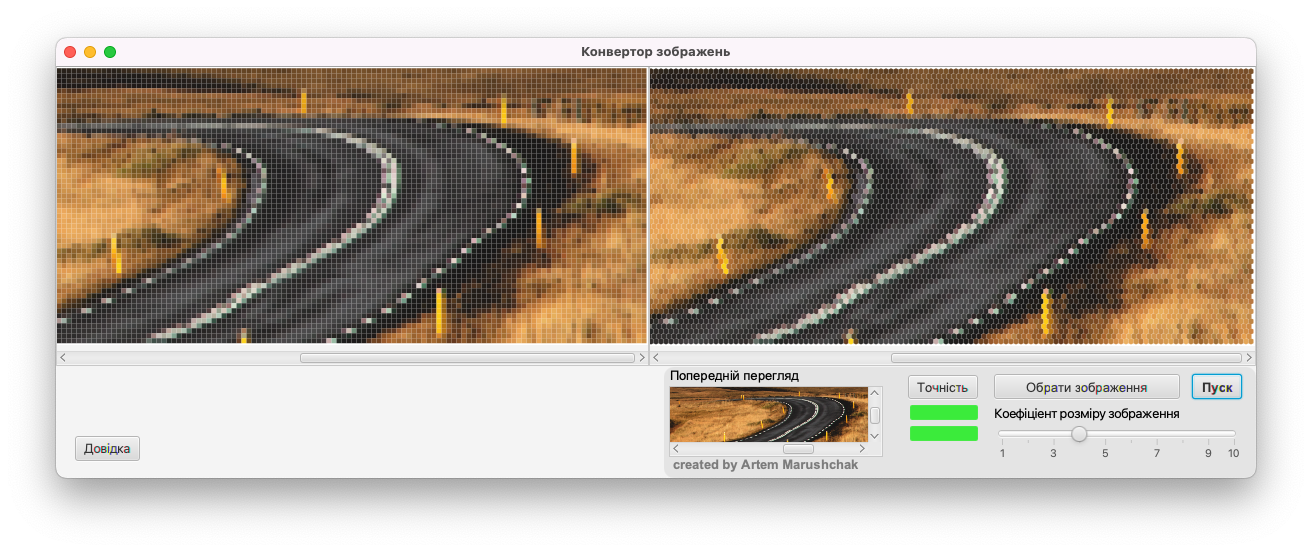
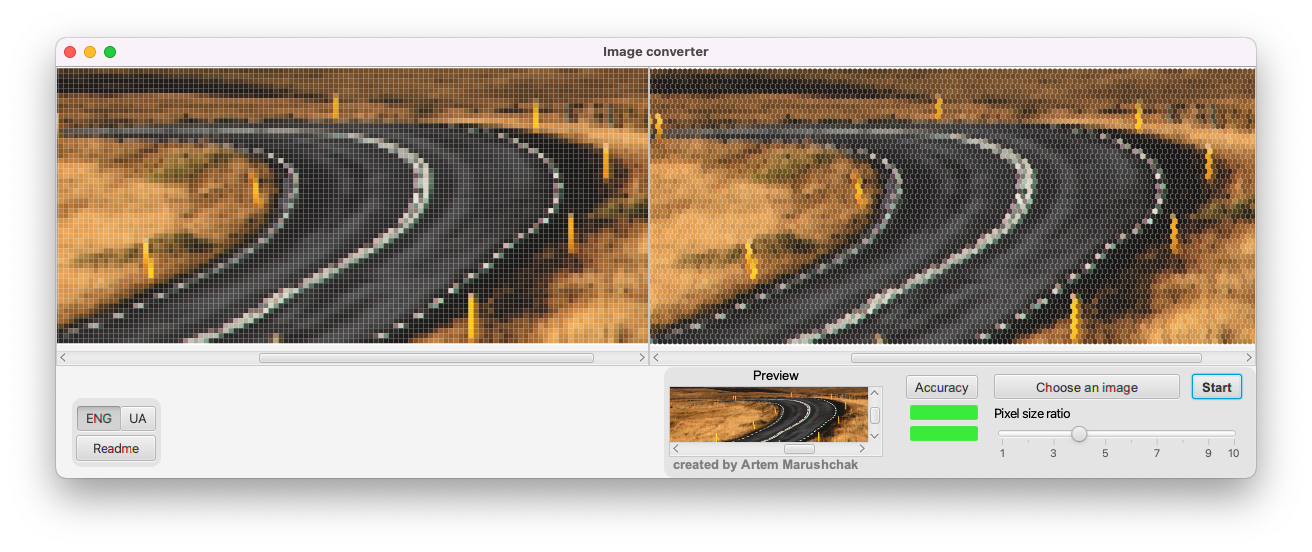
language Add

diff --git a/src/main/java/com/example/imagconvertertohexagonalraster/AppController.java b/src/main/java/com/example/imagconvertertohexagonalraster/AppController.java
@@ -163,6 +163,8 @@ public class AppController implements Initializable {
         langENGBtn.setSelected(false);
         langUABtn.setSelected(true);
 
+        Application.getStage().setTitle("Конвертер зображень");
+
         previewText.setText("Попередній перегляд");
         precisionButton.setText("Точність");
         chooseFile.setText("Обрати зображення");
@@ -175,6 +177,8 @@ public class AppController implements Initializable {
     public void onLangENGButtonClick(){
         langUABtn.setSelected(false);
         langENGBtn.setSelected(true);
+
+        Application.getStage().setTitle("Image converter");
 
         previewText.setText("Preview");
         precisionButton.setText("Accuracy");

diff --git a/src/main/java/com/example/imagconvertertohexagonalraster/Application.java b/src/main/java/com/example/imagconvertertohexagonalraster/Application.java
@@ -44,7 +44,7 @@ public class Application extends javafx.application.Application {
     @Override
     public void start(Stage primaryStage){
         stage = primaryStage;
-        stage.setTitle("Конвертор зображень");
+        stage.setTitle("Конвертер зображень");
         stage.setScene(scene);
         stage.show();
         stage.setMinWidth(1200);
